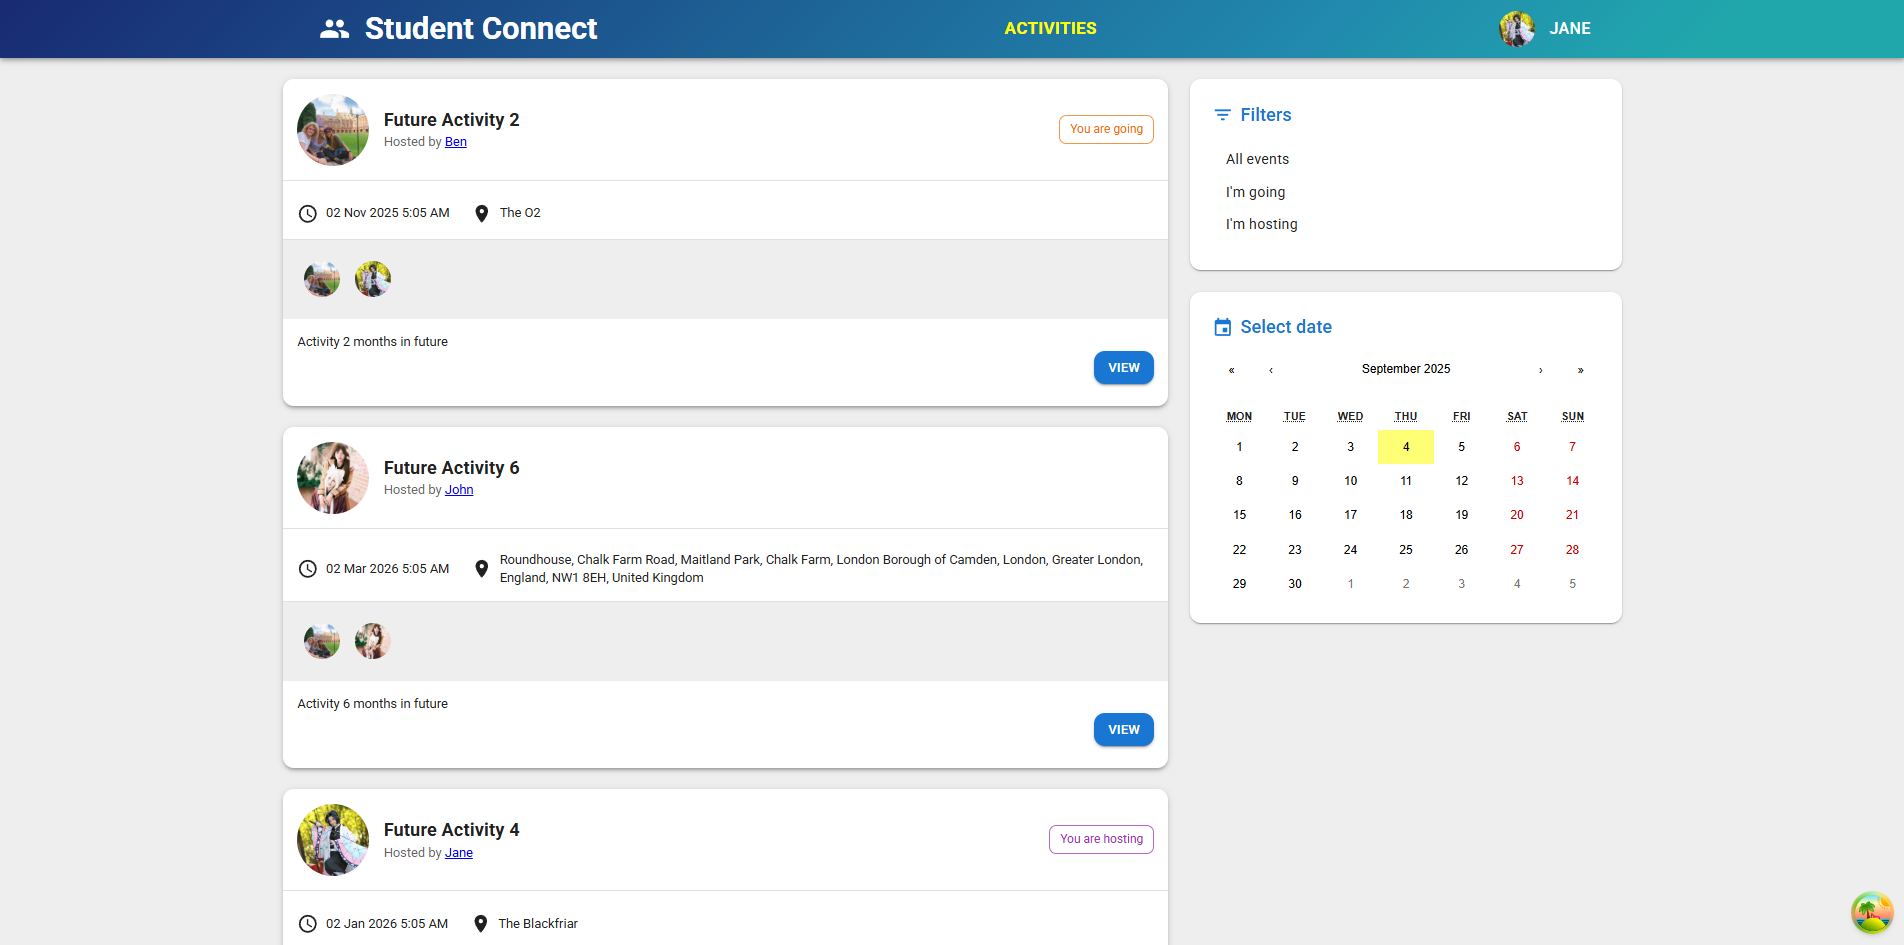
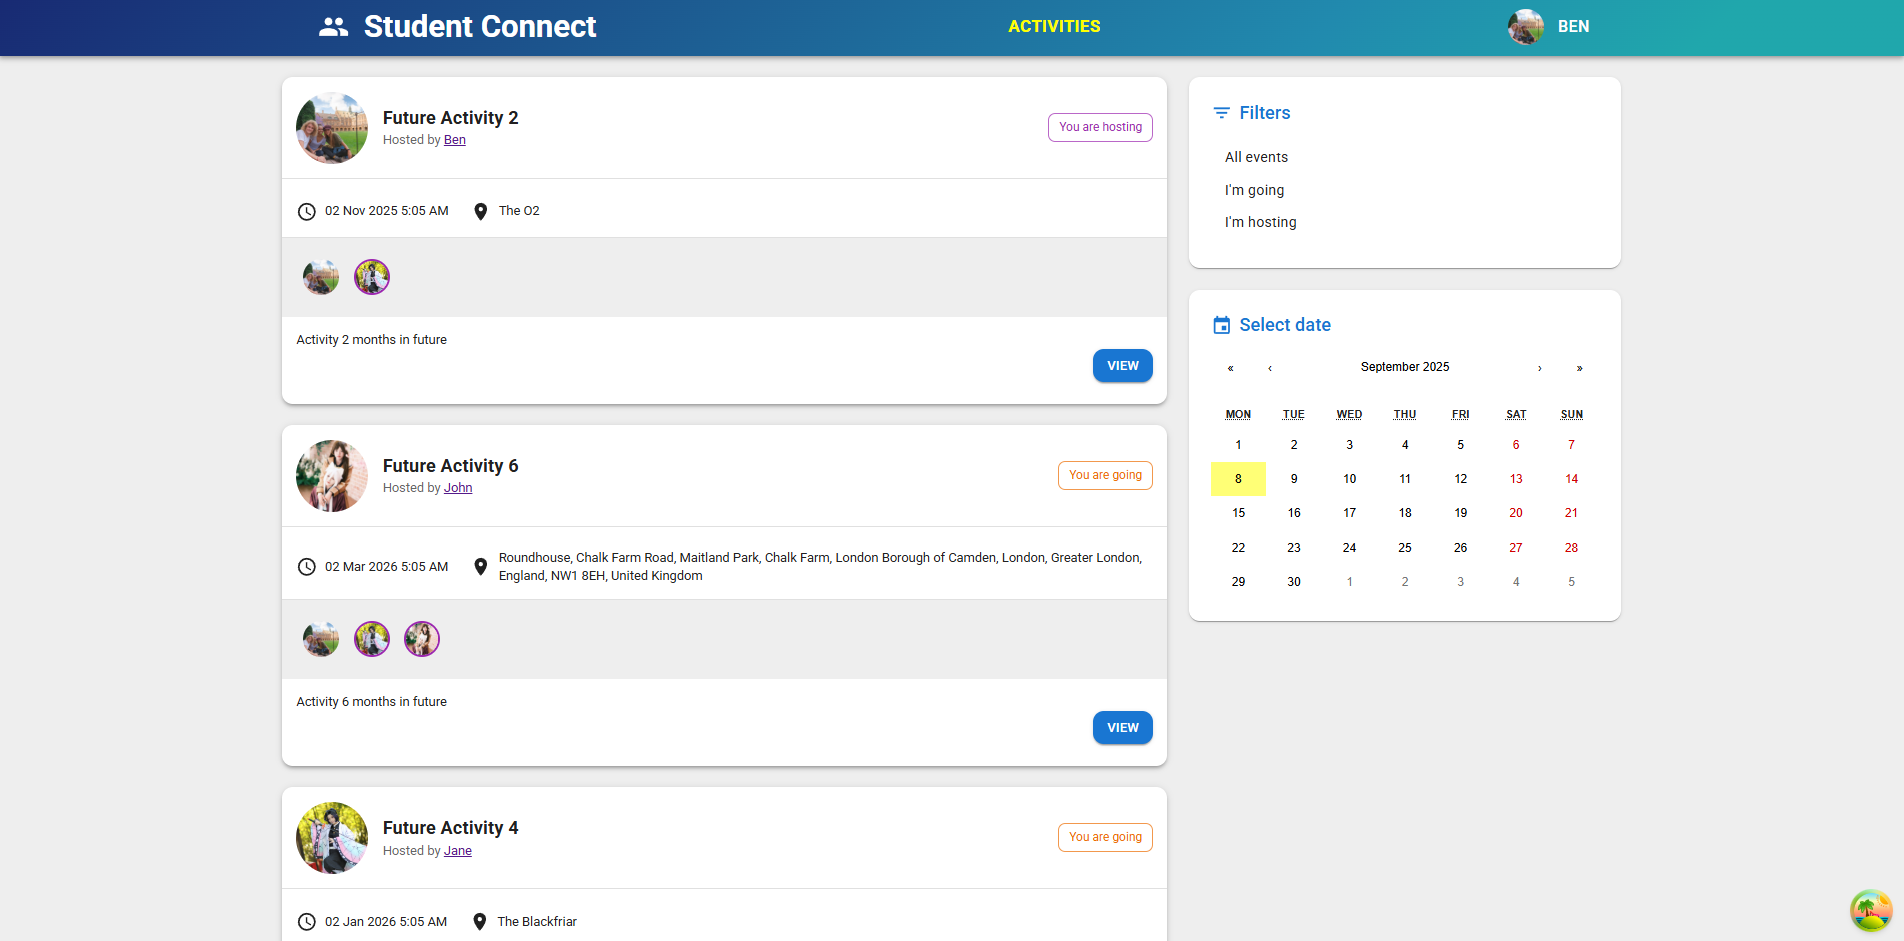
Update Screenshots

diff --git a/Application/obj/Debug/net9.0/Application.AssemblyInfo.cs b/Application/obj/Debug/net9.0/Application.AssemblyInfo.cs
@@ -13,7 +13,7 @@ using System.Reflection;
 [assembly: System.Reflection.AssemblyCompanyAttribute("Application")]
 [assembly: System.Reflection.AssemblyConfigurationAttribute("Debug")]
 [assembly: System.Reflection.AssemblyFileVersionAttribute("1.0.0.0")]
-[assembly: System.Reflection.AssemblyInformationalVersionAttribute("1.0.0+8ba9ef8728ad89f5e76cd35f924eb8fc41ae23e8")]
+[assembly: System.Reflection.AssemblyInformationalVersionAttribute("1.0.0+3ff35d77d94125d8509852b94645af7e5f790d9b")]
 [assembly: System.Reflection.AssemblyProductAttribute("Application")]
 [assembly: System.Reflection.AssemblyTitleAttribute("Application")]
 [assembly: System.Reflection.AssemblyVersionAttribute("1.0.0.0")]

diff --git a/Persistence/obj/Debug/net9.0/Persistence.AssemblyInfo.cs b/Persistence/obj/Debug/net9.0/Persistence.AssemblyInfo.cs
@@ -13,7 +13,7 @@ using System.Reflection;
 [assembly: System.Reflection.AssemblyCompanyAttribute("Persistence")]
 [assembly: System.Reflection.AssemblyConfigurationAttribute("Debug")]
 [assembly: System.Reflection.AssemblyFileVersionAttribute("1.0.0.0")]
-[assembly: System.Reflection.AssemblyInformationalVersionAttribute("1.0.0+8ba9ef8728ad89f5e76cd35f924eb8fc41ae23e8")]
+[assembly: System.Reflection.AssemblyInformationalVersionAttribute("1.0.0+3ff35d77d94125d8509852b94645af7e5f790d9b")]
 [assembly: System.Reflection.AssemblyProductAttribute("Persistence")]
 [assembly: System.Reflection.AssemblyTitleAttribute("Persistence")]
 [assembly: System.Reflection.AssemblyVersionAttribute("1.0.0.0")]

diff --git a/Domain/obj/Debug/net9.0/Domain.AssemblyInfo.cs b/Domain/obj/Debug/net9.0/Domain.AssemblyInfo.cs
@@ -13,7 +13,7 @@ using System.Reflection;
 [assembly: System.Reflection.AssemblyCompanyAttribute("Domain")]
 [assembly: System.Reflection.AssemblyConfigurationAttribute("Debug")]
 [assembly: System.Reflection.AssemblyFileVersionAttribute("1.0.0.0")]
-[assembly: System.Reflection.AssemblyInformationalVersionAttribute("1.0.0+8ba9ef8728ad89f5e76cd35f924eb8fc41ae23e8")]
+[assembly: System.Reflection.AssemblyInformationalVersionAttribute("1.0.0+3ff35d77d94125d8509852b94645af7e5f790d9b")]
 [assembly: System.Reflection.AssemblyProductAttribute("Domain")]
 [assembly: System.Reflection.AssemblyTitleAttribute("Domain")]
 [assembly: System.Reflection.AssemblyVersionAttribute("1.0.0.0")]

diff --git a/API/obj/Debug/net9.0/API.AssemblyInfo.cs b/API/obj/Debug/net9.0/API.AssemblyInfo.cs
@@ -13,7 +13,7 @@ using System.Reflection;
 [assembly: System.Reflection.AssemblyCompanyAttribute("API")]
 [assembly: System.Reflection.AssemblyConfigurationAttribute("Debug")]
 [assembly: System.Reflection.AssemblyFileVersionAttribute("1.0.0.0")]
-[assembly: System.Reflection.AssemblyInformationalVersionAttribute("1.0.0+8ba9ef8728ad89f5e76cd35f924eb8fc41ae23e8")]
+[assembly: System.Reflection.AssemblyInformationalVersionAttribute("1.0.0+3ff35d77d94125d8509852b94645af7e5f790d9b")]
 [assembly: System.Reflection.AssemblyProductAttribute("API")]
 [assembly: System.Reflection.AssemblyTitleAttribute("API")]
 [assembly: System.Reflection.AssemblyVersionAttribute("1.0.0.0")]
